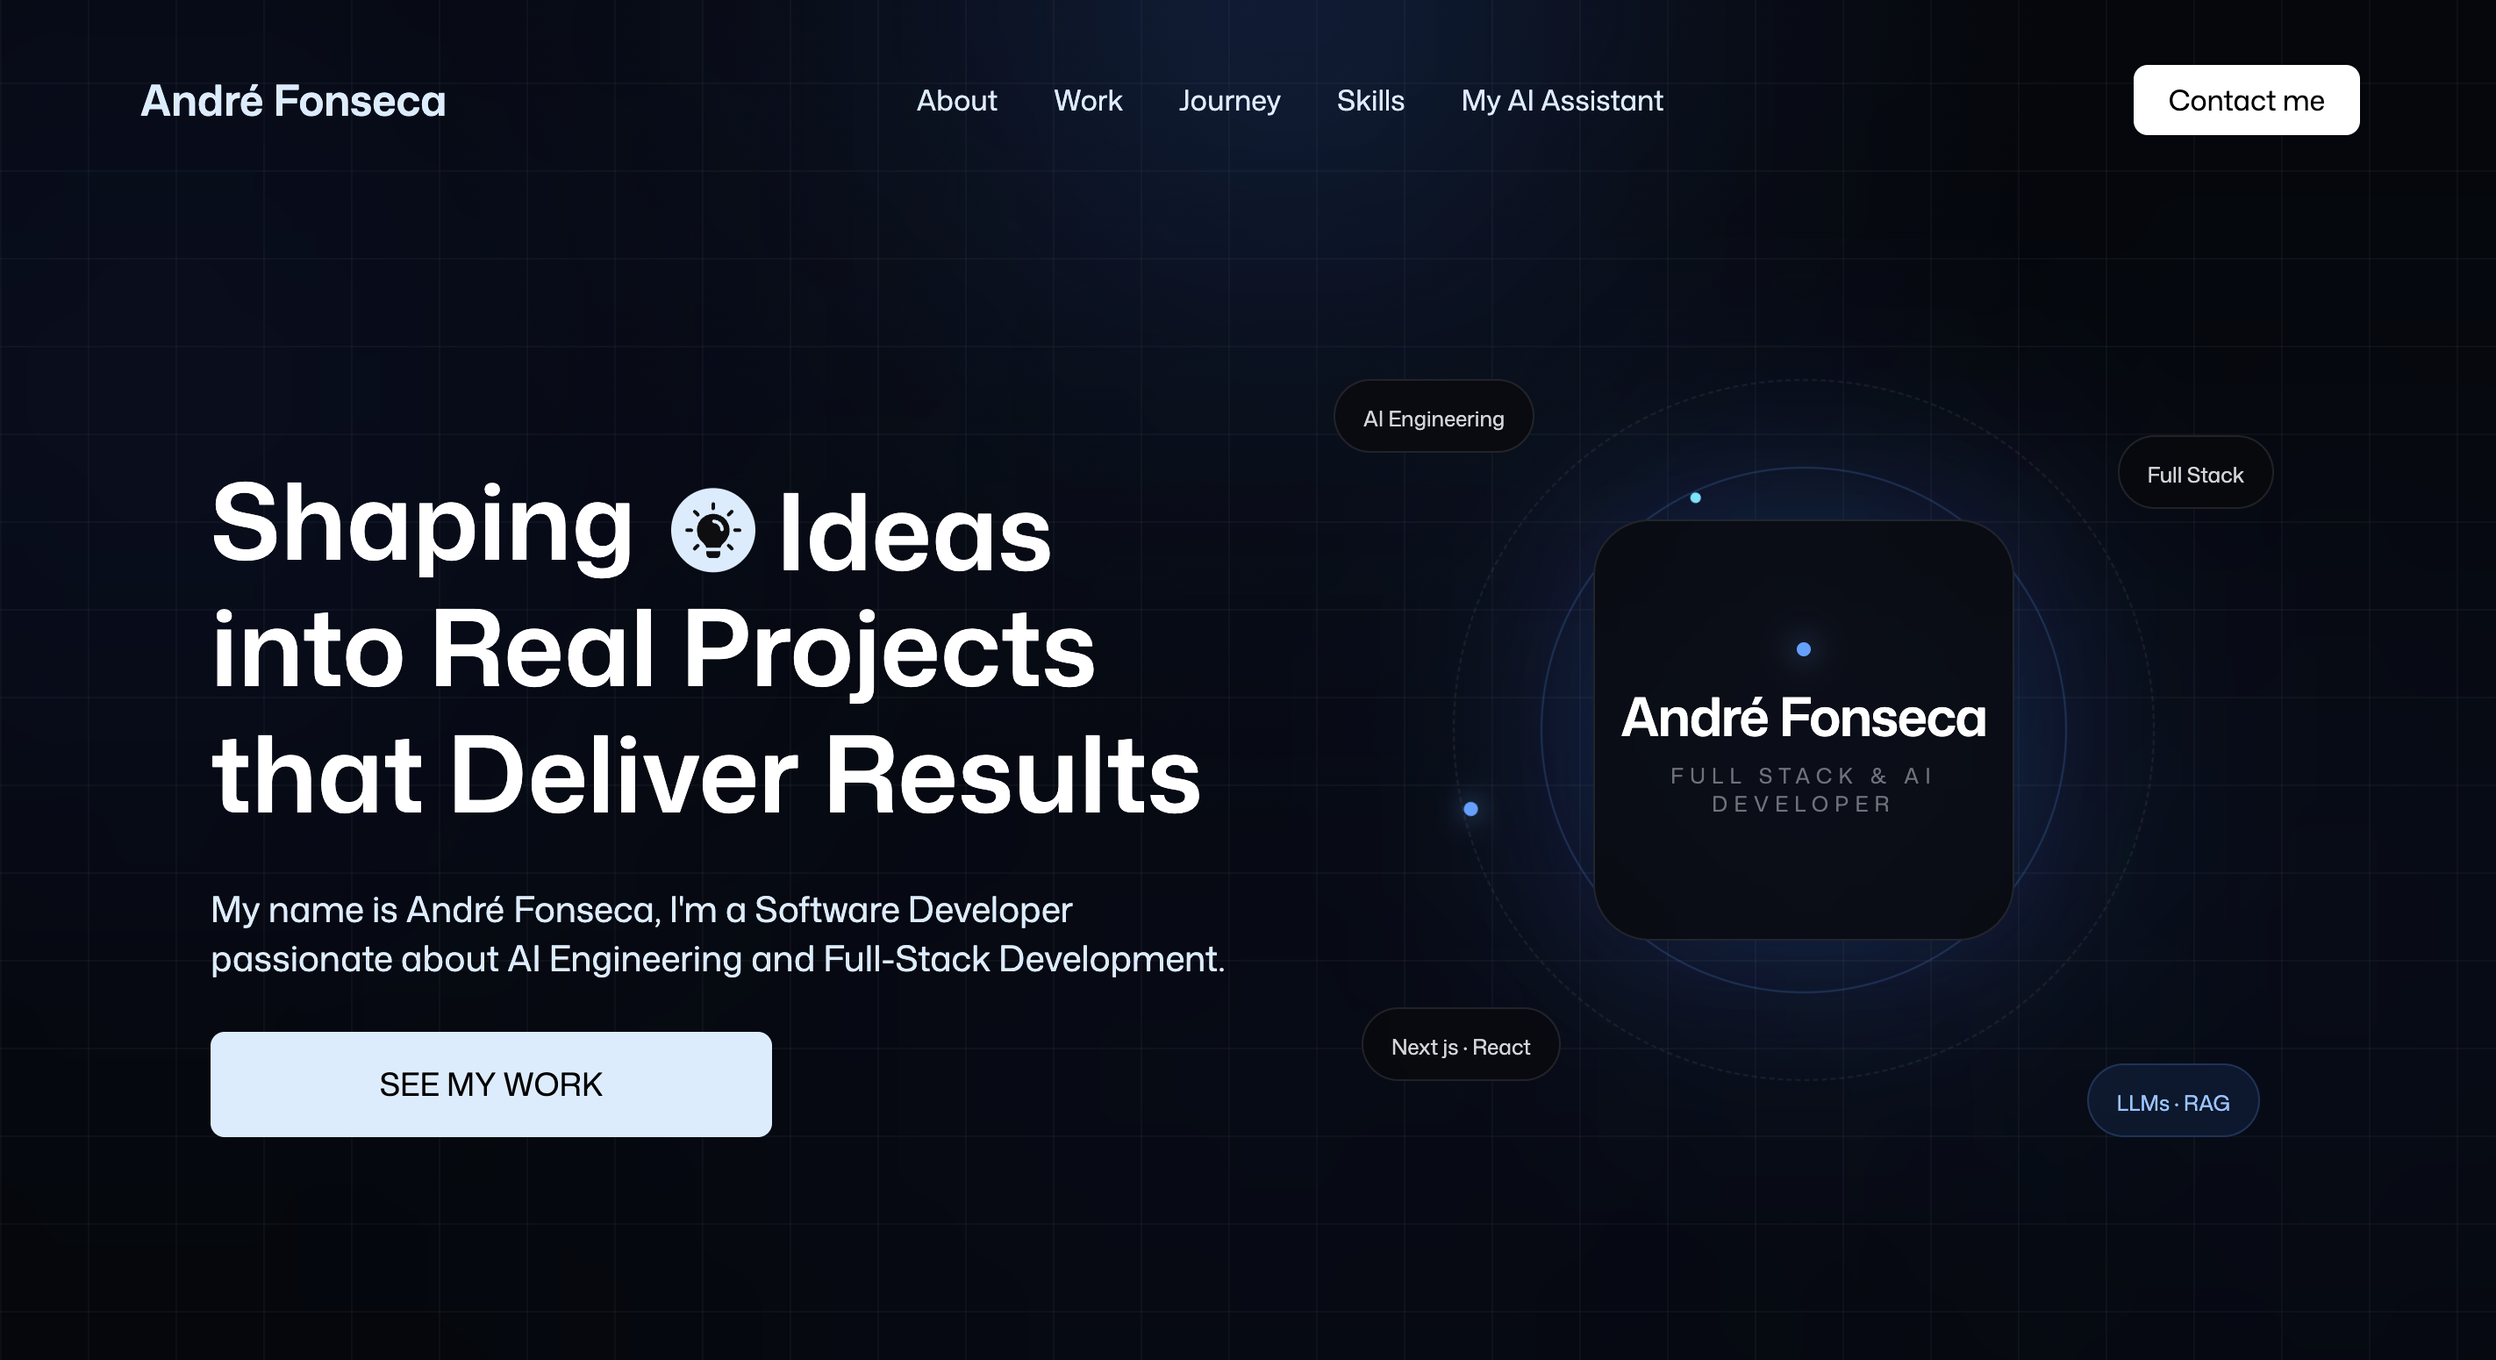
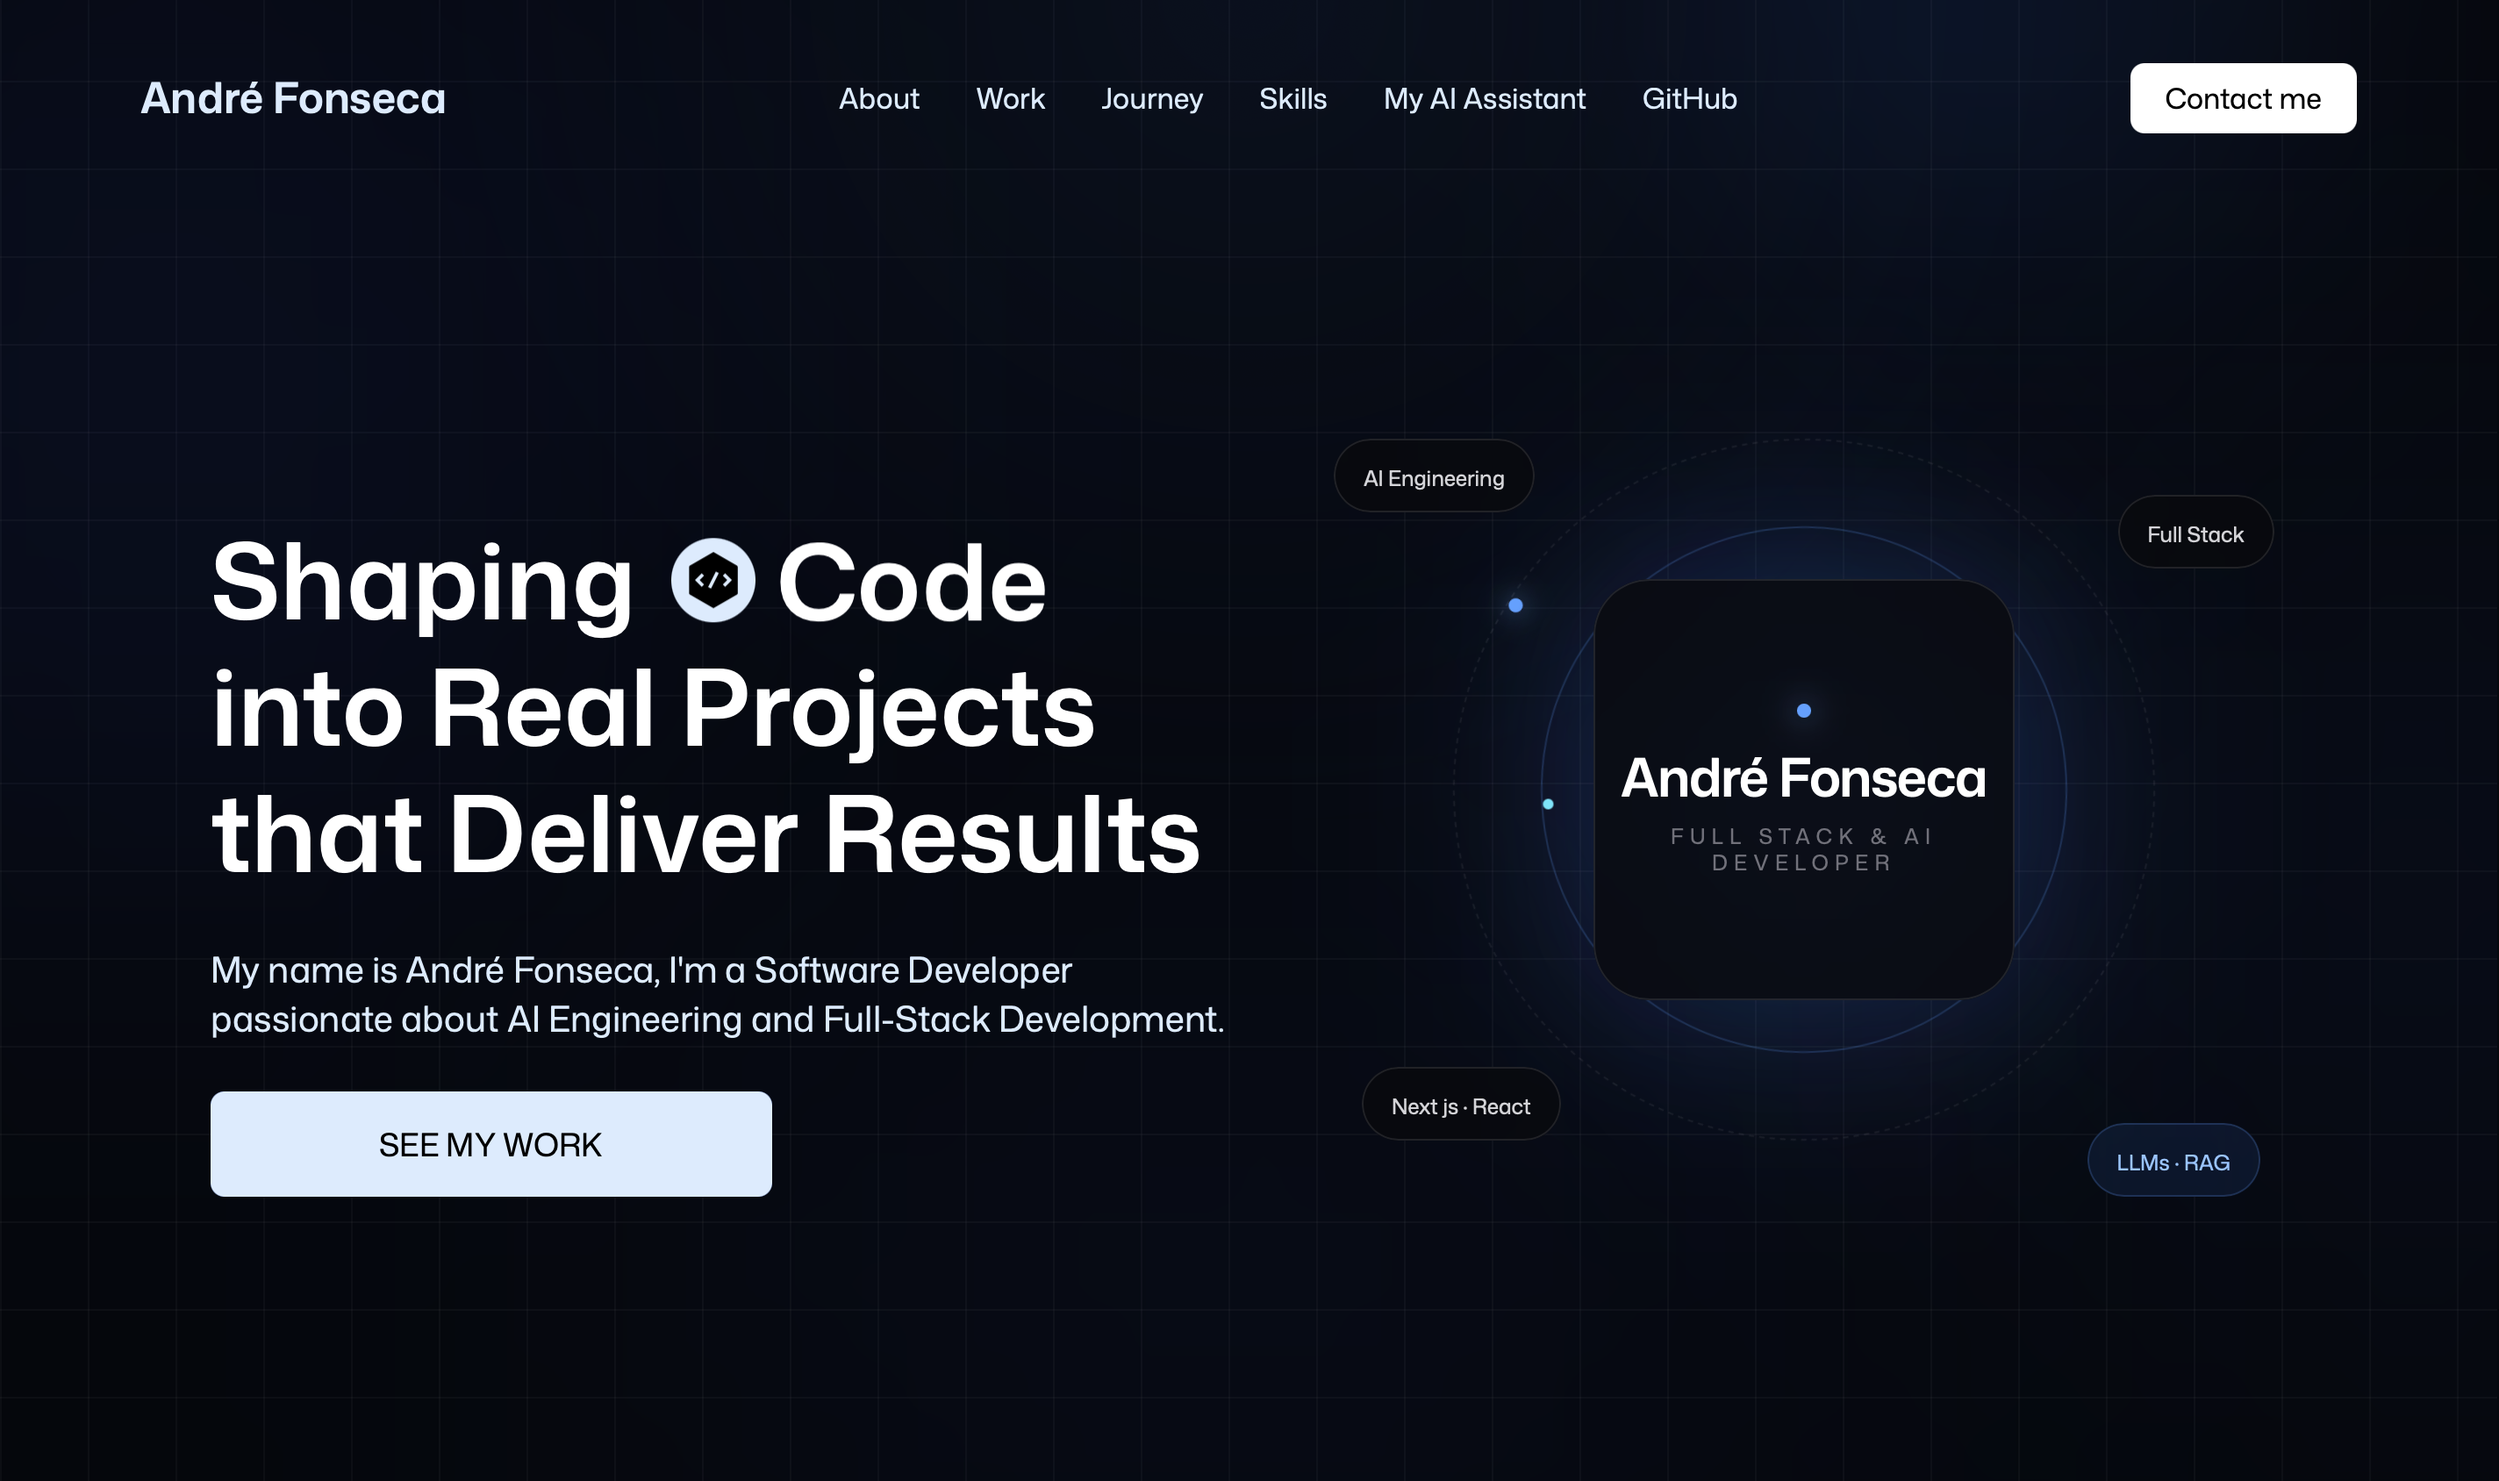
Update README with demo GIF

diff --git a/README.md b/README.md
@@ -1,19 +1,25 @@
 # 3D Portfolio - Interactive Portfolio & AI Assistant
 
-This project is my personal **interactive portfolio**, built with **React, Vite, Three.js, and React Three Fiber**.
+This project is my personal **interactive portfolio**, built with **React, Vite, Tailwind CSS, Three.js, and React Three Fiber**.
 
 It combines a modern responsive interface with interactive 3D elements, animations, and a **RAG-powered AI assistant** that allows visitors to ask questions about my background, education, experience, skills, projects, and AI journey.
 
----
+## Live Portfolio 🌐
 
-## Live Demo 🌐
+<p align="center">
+  <a href="https://andref218.github.io/3d_portfolio/">
+    <img
+      src="https://img.shields.io/badge/Explore%20My%20Portfolio-%E2%86%92-111827?style=for-the-badge&logo=googlechrome&logoColor=60a5fa&labelColor=111827"
+      alt="Explore My Portfolio"
+    />
+  </a>
+</p>
 
-Check out my live portfolio:  
-[![Visit Portfolio](https://img.shields.io/badge/Live%20Portfolio-Visit%20Site-0ea5e9?style=for-the-badge&logo=googlechrome&logoColor=white)](https://andref218.github.io/3d_portfolio/)
-
-[![Portfolio Screenshot](./screenshots/3d_portfolio.png)](https://andref218.github.io/3d_portfolio/)
-
----
+<p align="center">
+  <a href="https://andref218.github.io/3d_portfolio/">
+    <img src="./screenshots/3d_portfolio_demo.gif" alt="3D Portfolio Demo">
+  </a>
+</p>
 
 ## AI Portfolio Assistant 🤖
 
